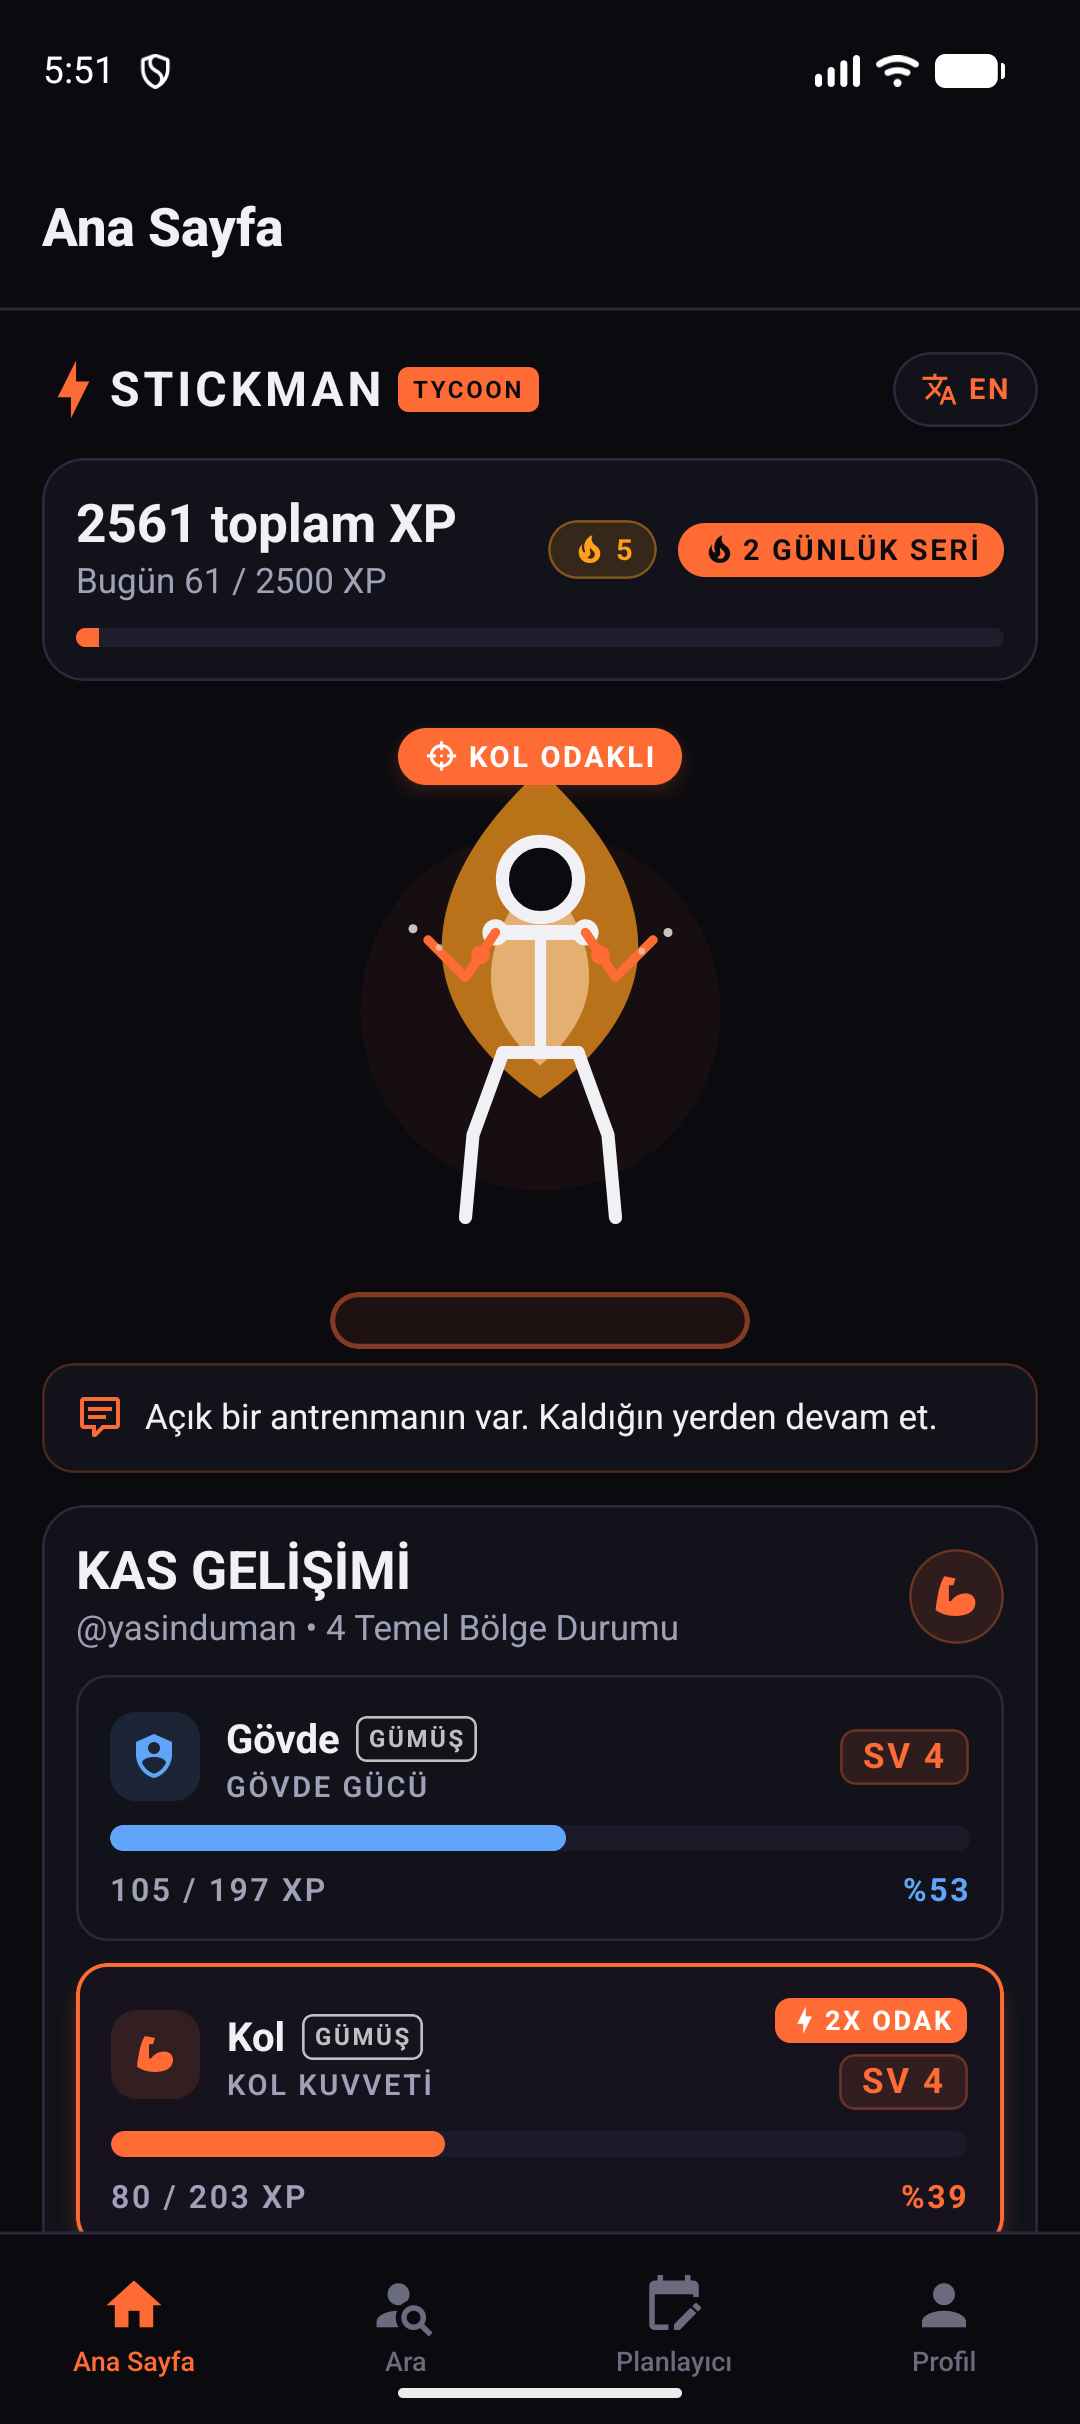
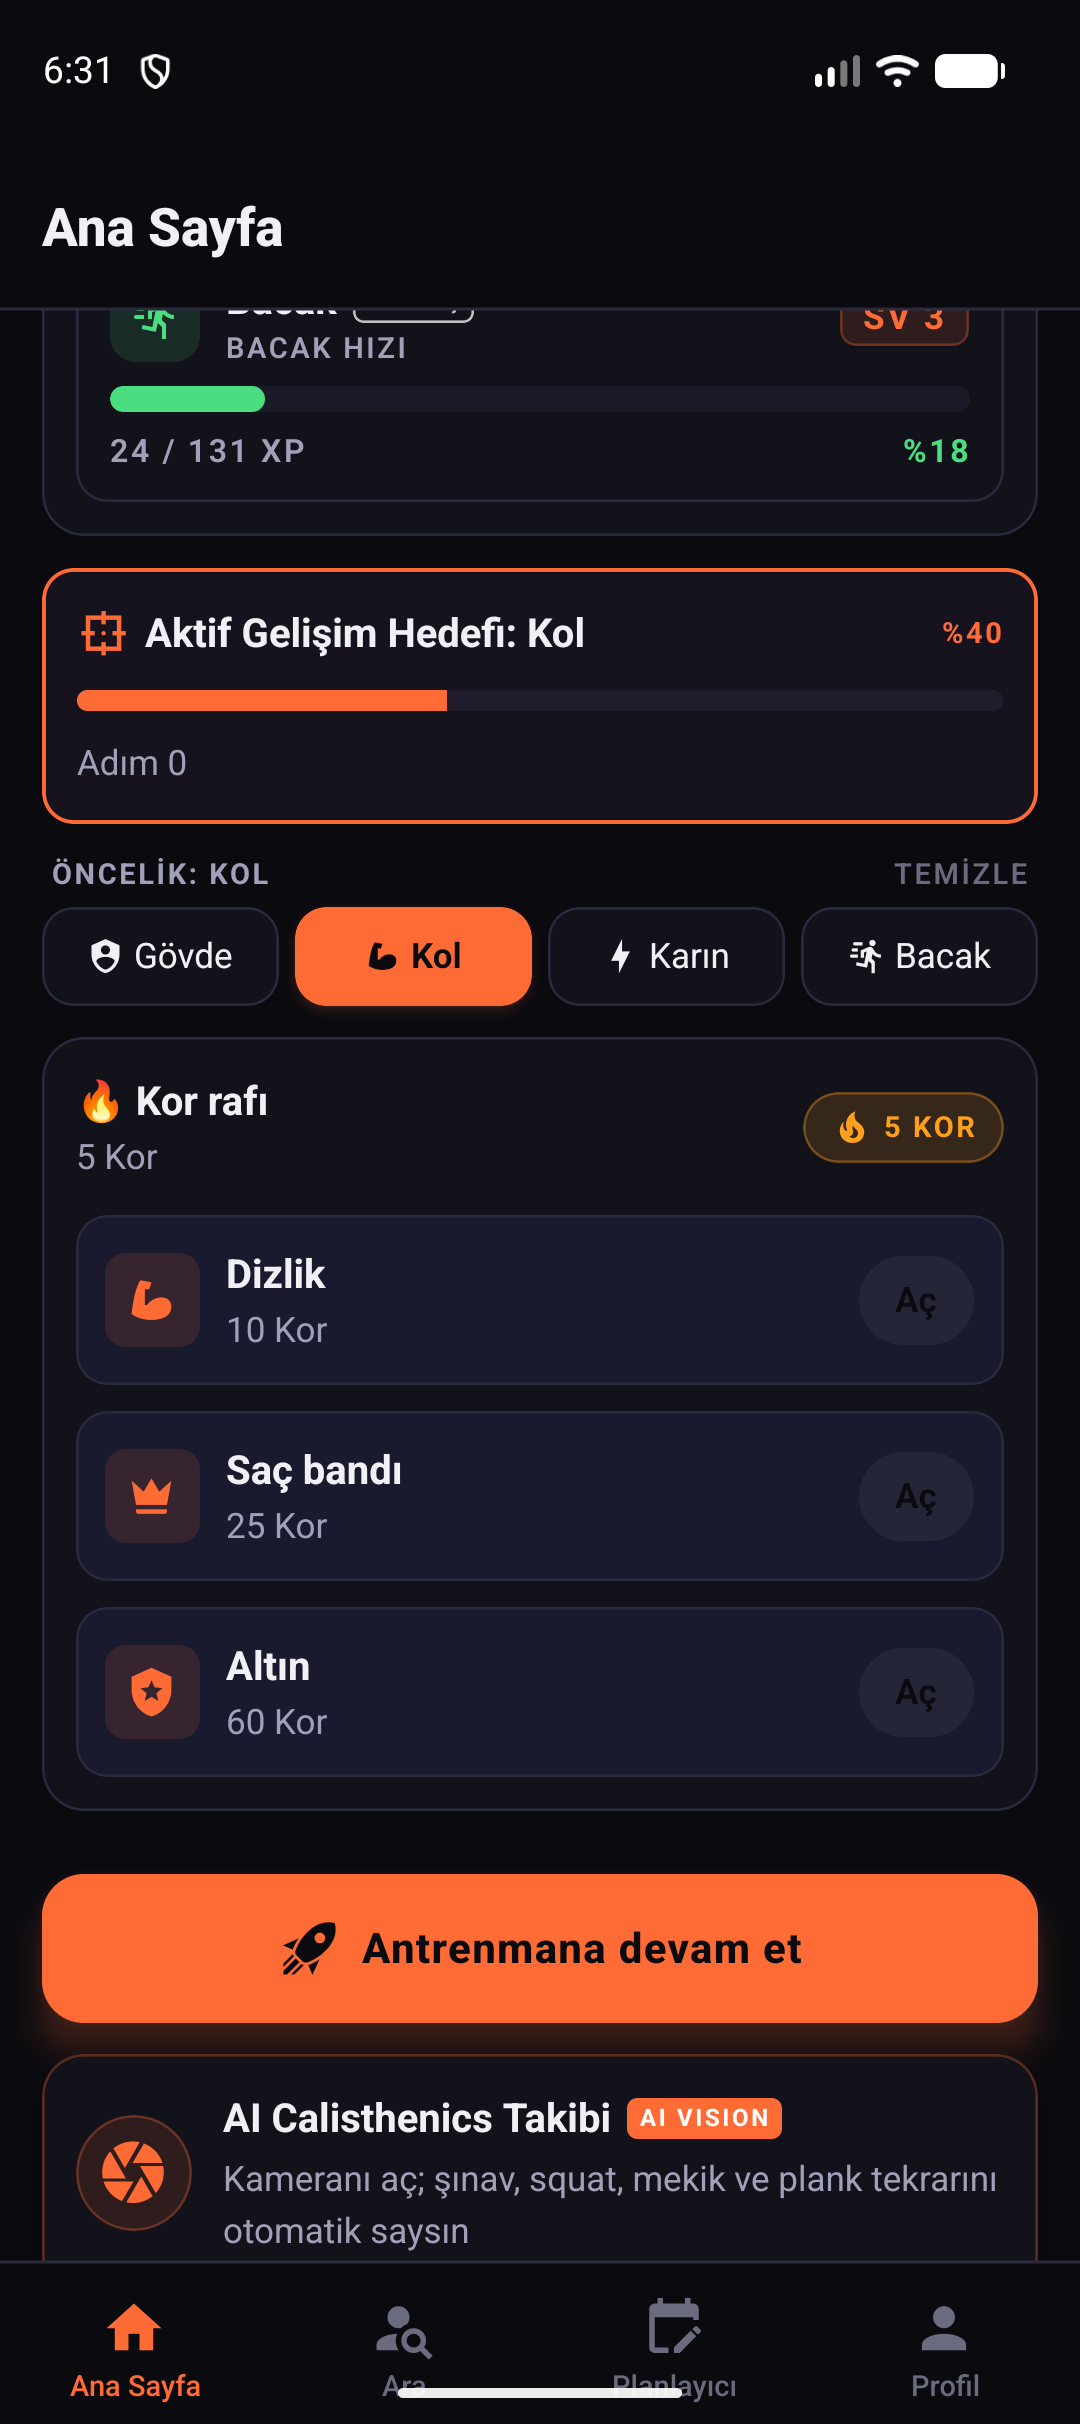
feat(navigation): Add tactile tab press haptics and calibrate bottom dock height and padding

Changed region(s): [[0.0306, 0.1238, 0.9778, 0.9901], [0.7944, 0.3403, 0.9472, 0.4022], [0.2139, 0.3403, 0.2444, 0.3713]]

diff --git a/src/navigation/TabNavigator.tsx b/src/navigation/TabNavigator.tsx
@@ -3,6 +3,7 @@ import { createBottomTabNavigator } from '@react-navigation/bottom-tabs';
 import MaterialCommunityIcons from 'react-native-vector-icons/MaterialCommunityIcons';
 import { useTranslation } from 'react-i18next';
 import theme from '../constants/theme';
+import { Vibration } from 'react-native';
 import HomeScreen from '../screens/HomeScreen';
 import SearchScreen from '../screens/SearchScreen';
 import PlannerScreen from '../screens/PlannerScreen';
@@ -16,6 +17,13 @@ export default function TabNavigator() {
 
   return (
     <Tab.Navigator
+      screenListeners={{
+        tabPress: () => {
+          try {
+            Vibration.vibrate(15);
+          } catch (_) {}
+        },
+      }}
       screenOptions={{
         tabBarActiveTintColor: theme.colors.accent.primary,
         tabBarInactiveTintColor: theme.colors.tab.inactive,
@@ -23,7 +31,13 @@ export default function TabNavigator() {
           backgroundColor: theme.colors.tab.background,
           borderTopWidth: 1,
           borderTopColor: theme.colors.border,
-          paddingTop: 8,
+          paddingTop: 6,
+          paddingBottom: 8,
+          height: 62,
+        },
+        tabBarLabelStyle: {
+          fontSize: 11,
+          fontWeight: '600',
         },
         headerStyle: {
           backgroundColor: theme.colors.background.primary,
